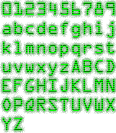
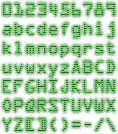
-update: hangar bay state being constructed -update: gamedatabase holds hashmaps for Letter images -update: loader state will populate the hash maps -update: uilib will do actual conversions -added: gray alpha numeric sheet

diff --git a/RedShift/src/ui/menustates/HangarBayState.java b/RedShift/src/ui/menustates/HangarBayState.java
@@ -1,5 +1,7 @@
 package ui.menustates;
 
+import java.awt.Point;
+
 import org.newdawn.slick.GameContainer;
 import org.newdawn.slick.Graphics;
 import org.newdawn.slick.Image;
@@ -7,6 +9,8 @@ import org.newdawn.slick.SlickException;
 import org.newdawn.slick.geom.Rectangle;
 import org.newdawn.slick.state.BasicGameState;
 import org.newdawn.slick.state.StateBasedGame;
+
+import ui.UILib;
 
 import core.GameDatabase;
 import core.PlayerClient;
@@ -20,11 +24,15 @@ public class HangarBayState extends BasicGameState {
 	private BasicShip displayShip;
 	private GameDatabase gdb;
 	private Image mainScn_i, wepScn_i, engScn_i, briefScn_i;
+	private UILib ulib;
+	private Point center;
 	
 	public HangarBayState(int i, GameDatabase g, PlayerClient p){
 		id = i;
 		gdb = g;
 		pc=p;
+		ulib = new UILib();
+		center = new Point(512,500);
 	}
 	
 	@Override
@@ -32,13 +40,19 @@ public class HangarBayState extends BasicGameState {
 			throws SlickException {
 		
 		mainScn_i = gdb.getIMG("montrBKC");
-		wepScn_i = gdb.getIMG("montrBKC").copy();
-		engScn_i = gdb.getIMG("montrBKC").copy();
+		wepScn_i = gdb.getIMG("small_scrn");
+		engScn_i = gdb.getIMG("small_scrn");
 	}
 
 	@Override
-	public void render(GameContainer arg0, StateBasedGame arg1, Graphics arg2)
+	public void render(GameContainer arg0, StateBasedGame arg1, Graphics gfx)
 			throws SlickException {
+		renderScreens(gfx);
+		
+		renderEngines(gfx);
+		
+		renderWeapons(gfx);
+
 		
 	}
 
@@ -49,7 +63,30 @@ public class HangarBayState extends BasicGameState {
 	}
 
 	
+	private void renderScreens(Graphics gfx) {
+		ulib.drawImageCenteredOnPoint(gfx, mainScn_i, center);
+
+		
+	}
 	
+
+	private void renderWeapons(Graphics gfx) {
+		ulib.drawImageNextToImage(gfx, mainScn_i, wepScn_i, center, 0, 0);
+		ulib.drawImageCenteredOnPoint(gfx, 
+				gdb.getIMG("wep_i"), 
+				new Point(center.x-((mainScn_i.getWidth()/2)+(wepScn_i.getWidth()/2))
+						,center.y-(mainScn_i.getHeight()/2-10)));
+		
+	}
+
+	private void renderEngines(Graphics gfx) {
+		ulib.drawImageNextToImage(gfx, mainScn_i, engScn_i, center, 1, 0);
+		ulib.drawImageCenteredOnPoint(gfx, 
+				gdb.getIMG("engine_i"), 
+				new Point(center.x+((mainScn_i.getWidth()/2)+(engScn_i.getWidth()/2))
+						,center.y-(mainScn_i.getHeight()/2-10)));
+		
+	}
 	
 	
 	@Override

diff --git a/RedShift/src/core/ClientLoaderState.java b/RedShift/src/core/ClientLoaderState.java
@@ -5,6 +5,7 @@ import java.io.IOException;
 
 import org.newdawn.slick.GameContainer;
 import org.newdawn.slick.Graphics;
+import org.newdawn.slick.Image;
 import org.newdawn.slick.SlickException;
 import org.newdawn.slick.state.BasicGameState;
 import org.newdawn.slick.state.StateBasedGame;
@@ -61,13 +62,16 @@ public class ClientLoaderState extends BasicGameState {
 		lvbr = new LevelBuilder();
 		hdm = new HudDataModel();
 		
+		createGreenLetters(gdb.getIMG("grnAlphNm"));
+		createGrayLetters(gdb.getIMG("graAlphNm"));
+		
 		arg1.addState(new ClientGameplayState(0, player, gdb, entFac, lvbr,hdm));
 		arg1.addState(new ClientGameplayState(1, player, gdb, entFac, lvbr, hdm));
 		arg1.addState(new GameOverState(-1));
 		arg1.addState(new GameSuccessState(2));
 		arg1.addState(new MainMenuState(3, gdb));
-		arg1.addState(new HangarBayState(5, gdb, player));
 		arg1.addState(new OptionMenuState(4, player.getOptions(), gdb));
+		arg1.addState(new HangarBayState(5, gdb, player));
 		arg1.addState(new ModHudMenuState(6, hdm, gdb));
 		
 		try {
@@ -96,6 +100,16 @@ public class ClientLoaderState extends BasicGameState {
 			throws SlickException {
 
 		arg1.enterState(3);
+	}
+	
+
+	private void createGrayLetters(Image img) {
+		
+	}
+
+	private void createGreenLetters(Image img) {
+
+		
 	}
 
 }

diff --git a/RedShift/src/ui/menustates/MainMenuState.java b/RedShift/src/ui/menustates/MainMenuState.java
@@ -105,7 +105,7 @@ public class MainMenuState extends BasicGameState {
 				stbg.enterState(1, new FadeOutTransition(Color.gray), null);
 			}
 			if(scenBTN_rec.intersects(mouse_rec)){
-				
+				stbg.enterState(5);
 			}
 			if(optBTN_rec.intersects(mouse_rec)){
 				stbg.enterState(4);
@@ -113,25 +113,6 @@ public class MainMenuState extends BasicGameState {
 			if(quitBTN_rec.intersects(mouse_rec)){
 				gc.exit();
 			}
-		}
-		//only here for quick moving of recs
-		else if (gc.getInput().isMouseButtonDown(0)){
-//			if(playBTN_rec.intersects(mouse_rec)){
-//				playBTN_rec.setCenterX(gc.getInput().getMouseX());
-//				playBTN_rec.setCenterY(gc.getInput().getMouseY());
-//			}
-//			if(scenBTN_rec.intersects(mouse_rec)){
-//				scenBTN_rec.setCenterX(mouse_rec.getCenterX());
-//				scenBTN_rec.setCenterY(mouse_rec.getCenterY());
-//			}
-//			if(optBTN_rec.intersects(mouse_rec)){
-//				optBTN_rec.setCenterX(gc.getInput().getMouseX());
-//				optBTN_rec.setCenterY(gc.getInput().getMouseY());
-//			}
-//			if(quitBTN_rec.intersects(mouse_rec)){
-//				quitBTN_rec.setCenterX(gc.getInput().getMouseX());
-//				quitBTN_rec.setCenterY(gc.getInput().getMouseY());
-//			}
 		}
 	}
 

diff --git a/RedShift/src/core/GameDatabase.java b/RedShift/src/core/GameDatabase.java
@@ -50,6 +50,8 @@ public class GameDatabase {
 	private Map<String, BasicShot> indexShot;
 	private Map<String, BasicArmor> indexArmor;
 	private Map<String, Sound> indexSounds;
+	private Map<String, Image> greenLetters;
+	private Map<String, Image> grayLetters;
 	
 	//constructor
 	public GameDatabase(){}
@@ -84,6 +86,8 @@ public class GameDatabase {
 		indexEng = new HashMap<String, BasicEngine>();
 		indexArmor = new HashMap<String, BasicArmor>();
 		indexShip = new HashMap<String, BasicShip>();
+		greenLetters = new HashMap<String, Image>();
+		grayLetters = new HashMap<String, Image>();
 		populateAll();
 	}
 	

diff --git a/RedShift/src/ui/UILib.java b/RedShift/src/ui/UILib.java
@@ -19,6 +19,15 @@ import org.newdawn.slick.geom.Shape;
 public class UILib {
  
 	public UILib(){
+		
+	}
+	
+	
+	public Image convertTextToImage(String s, Image letters){
+		Image output = null;
+		
+		
+		return output;
 	}
 	
 	/**

diff --git a/RedShift/assets/text/images.rst b/RedShift/assets/text/images.rst
@@ -31,6 +31,8 @@
 [optBTN_n]	(assets/images/gui/mainmenu/optBTN_n.png)
 [qutBTN_n]	(assets/images/gui/mainmenu/qutBTN_n.png)
 [montrBKC]	(assets/images/gui/mainmenu/menu_monitor_bkg.png)
+[grnAlphNm]	(assets/images/gui/greenAlphaNums.png)
+[graAlphNm]	(assets/images/gui/grayAlphaNums.png)
 /UI Options/
 [bckBTN_n]	(assets/images/gui/options/bckBTN_n.png)
 [cfghdBTN_n]	(assets/images/gui/options/cfghudBTN_n.png)
